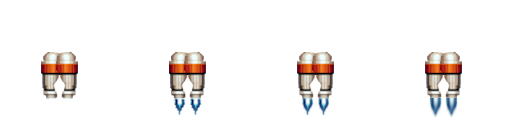
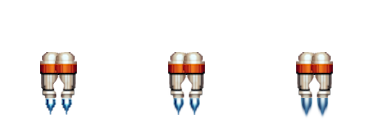
.

diff --git a/core/src/main/java/com/mygdx/game/entities/Player.java b/core/src/main/java/com/mygdx/game/entities/Player.java
@@ -118,12 +118,21 @@ public class Player extends Objeto{
         for (Item item : treeMap_Items.sequencedValues()) {
             if (equipped[item.getIndex()]) {
                 if (item.toString().contains("Jet")){
-                   jetPackBoolean = true;
+                    if (!jetPackBoolean) {
+                        body.setGravityScale(0f);
+                        jetPackBoolean = true;
+                    }
                 }
+            }
+            if (!equipped[item.getIndex()] && item.toString().contains("Jet")){
+                jetPackBoolean = false;
+                body.setGravityScale(1f);
             }
         }
         if (jetPackBoolean) {
             Sprite jet = new Sprite(Player_Animations.JETPACK.animator.currentSpriteFrameUpdateStateTime(false, true, !isFacingRight));
+            jet.setOriginCenter();
+            jet.setPosition(body.getPosition().x - (Player.BOX_WIDTH/2f) - 25f, body.getPosition().y - Player.BOX_HEIGHT/2f + 10f);
             jet.draw(s);
         }
     }
@@ -497,7 +506,6 @@ public class Player extends Objeto{
                 ninjaRope_shoot.draw(spriteBatch);
                 break;
             }
-
         }
     }
 
@@ -543,13 +551,13 @@ public class Player extends Objeto{
                         changeAnimation("JUMPING_FRONT");
                     }
                 }
-                if (getBody().getLinearVelocity().y != 0f && getBody().getLinearVelocity().x != 0f) {
+                if (Math.abs(getBody().getLinearVelocity().y) > 0.5f) {
                     changeAnimation("JUMPING");
                     walking = false;
                 }
             }
             if (onGround()) {
-                if (isntMovingAxisXnorY() && isFinishedCurrentAnimation())
+                if (!isMovingXAxis() && !hit)
                     changeAnimation("IDLE");
             }
         }
@@ -615,6 +623,8 @@ public class Player extends Objeto{
 //                walking = false;
                 }
             }
+            if (jetPackBoolean)
+                body.setGravityScale(0f);
         }
         if (keycode == Input.Keys.R){
             if (rifle != null) {
@@ -637,8 +647,13 @@ public class Player extends Objeto{
     }
 
     public void keyUp(int keycode){
+        if (keycode == Input.Keys.SPACE)
+            if (jetPackBoolean)
+                body.setGravityScale(0.4f);
+
         if (keycode == Input.Keys.A || keycode == Input.Keys.D){
             body.setLinearVelocity(0f, body.getLinearVelocity().y);
+
 //            if (!animationName().contains("FIRE")) {
 //                if (!onGround()){
 //                    if (isMovingXAxis())

diff --git a/core/src/main/java/com/mygdx/game/images/Player_Animations.java b/core/src/main/java/com/mygdx/game/images/Player_Animations.java
@@ -16,7 +16,7 @@ public enum Player_Animations implements Serializable {
     WALKING_SWORD(new Animator(6,6,5,128,128,"boy/Walking_Sword.png")),
     SWORD(new Animator(1,1,1,128,128,"boy/Sword.png")),
     RELOADING(new Animator(3,3,1,128,128, "boy/Reloading.png")),
-    JETPACK(new Animator(4,4,14,128,128, "boy/JetPack.png")),
+    JETPACK(new Animator(3,3,12,128,128, "boy/JetPack.png")),
     WALKING(new Animator(6,6, 5, 128, 128, "boy/Walking.png")),
     IDLE(new Animator(1,1, 1, 128, 128, "boy/Idle.png")),
     SABER(new Animator(4,4, 15, 128, 128, "boy/saber_Sheet.png")),
